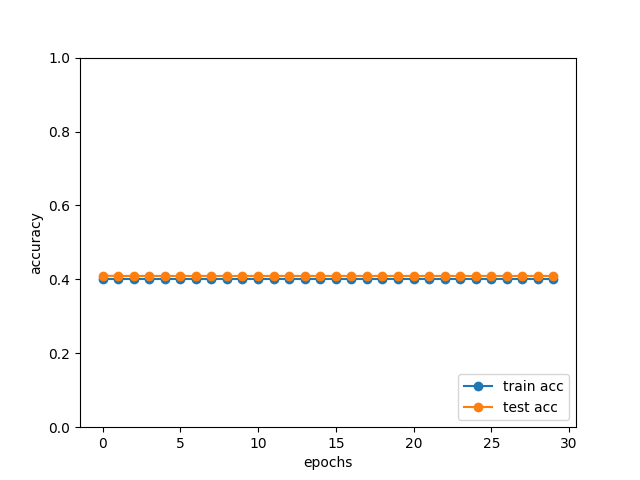
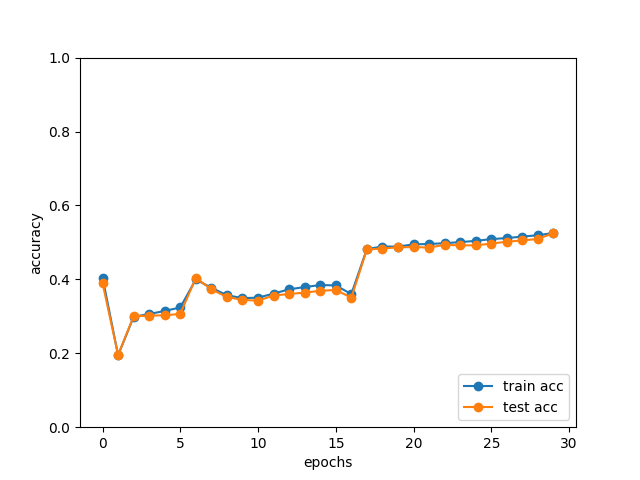
improve faiked net

Changed region(s): [[0.1562, 0.4688, 0.875, 0.75]]

diff --git a/Nakka0925/two_layer_net.py b/Nakka0925/two_layer_net.py
@@ -9,7 +9,7 @@ from collections import OrderedDict
 
 class TwoLayerNet:
 
-    def __init__(self, input_size, hidden_size, output_size, weight_init_std = 0.001):
+    def __init__(self, input_size, hidden_size, output_size, weight_init_std = 0.1):
         # 重みの初期化
         self.params = {}
         self.params['W1'] = weight_init_std * np.random.randn(input_size, hidden_size)
